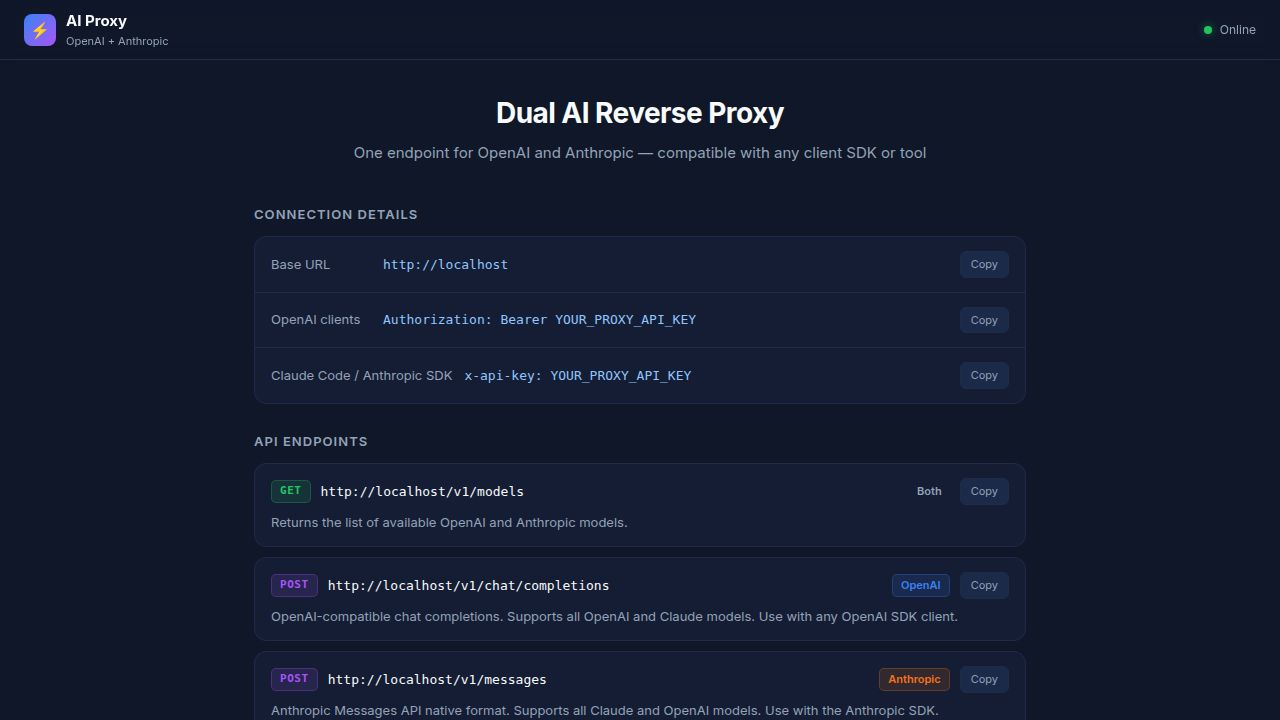
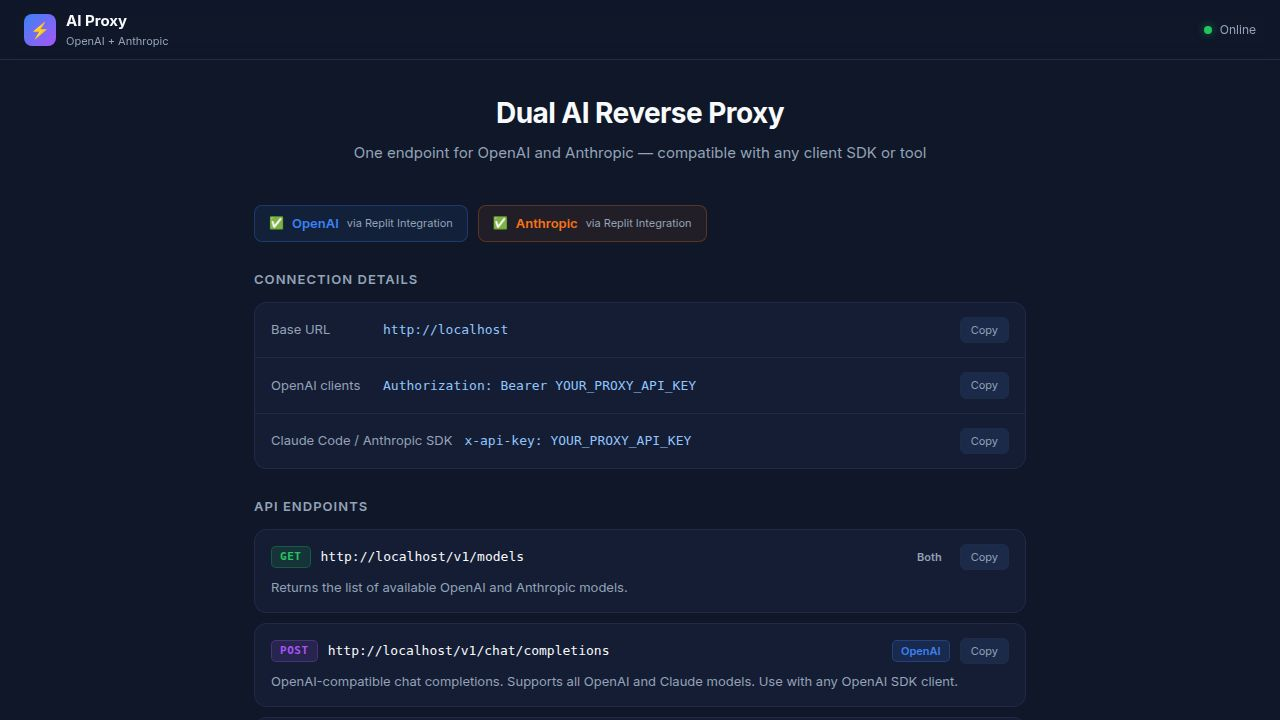
Add automatic integration setup prompt for Replit Agent
Introduce a new prompt for the Replit Agent to automatically configure AI integrations, simplifying the setup process for deployed applications.

Replit-Commit-Author: Agent
Replit-Commit-Session-Id: 729d444d-5c8c-4a5c-aedb-13aca8ba5588
Replit-Commit-Checkpoint-Type: full_checkpoint
Replit-Commit-Event-Id: ec2453fd-46f7-472b-a636-a43aa08fc039
Replit-Commit-Screenshot-Url: https://storage.googleapis.com/screenshot-production-us-central1/3ffdbfe6-48a6-4f89-98e3-c7e74179b4e4/729d444d-5c8c-4a5c-aedb-13aca8ba5588/aFTfLhC
Replit-Helium-Checkpoint-Created: true

diff --git a/artifacts/api-portal/src/App.tsx b/artifacts/api-portal/src/App.tsx
@@ -14,6 +14,13 @@ const CODE_BG = "hsl(222,47%,8%)";
 const OPENAI_MODELS = ["gpt-5.2", "gpt-5-mini", "gpt-5-nano", "o4-mini", "o3"];
 const ANTHROPIC_MODELS = ["claude-opus-4-6", "claude-sonnet-4-6", "claude-haiku-4-5"];
 
+const AGENT_SETUP_PROMPT = `请帮我配置这个 Replit 项目的 AI 集成：
+1. 在 Tools → Integrations 中添加 OpenAI AI 集成
+2. 在 Tools → Integrations 中添加 Anthropic AI 集成
+3. 完成后重启 "API Server" workflow
+
+这会自动注入 AI_INTEGRATIONS_OPENAI_API_KEY、AI_INTEGRATIONS_OPENAI_BASE_URL、AI_INTEGRATIONS_ANTHROPIC_API_KEY、AI_INTEGRATIONS_ANTHROPIC_BASE_URL 环境变量，让 AI 反代网关正常工作。`;
+
 const ENDPOINTS = [
   {
     method: "GET",
@@ -267,30 +274,52 @@ export default function App() {
               </div>
 
               {/* Instructions */}
-              <div>
-                <p style={{ margin: "0 0 12px", fontSize: "13px", color: TEXT, fontWeight: 600 }}>
-                  Choose one of the following setup methods:
+              <div style={{ display: "flex", flexDirection: "column", gap: "10px" }}>
+                <p style={{ margin: 0, fontSize: "13px", color: TEXT, fontWeight: 600 }}>
+                  Choose a setup method — fastest first:
                 </p>
 
-                {/* Method A */}
-                <div style={{ background: CODE_BG, borderRadius: "8px", padding: "14px 16px", marginBottom: "10px" }}>
-                  <div style={{ fontSize: "12px", fontWeight: 700, color: "#22c55e", marginBottom: "8px", textTransform: "uppercase", letterSpacing: "0.06em" }}>Method A — Replit AI Integrations (free, recommended)</div>
+                {/* Method 0 — Agent prompt (fastest) */}
+                <div style={{ background: CODE_BG, borderRadius: "8px", padding: "14px 16px", border: "1px solid #22c55e33" }}>
+                  <div style={{ display: "flex", alignItems: "center", justifyContent: "space-between", marginBottom: "10px" }}>
+                    <div style={{ fontSize: "12px", fontWeight: 700, color: "#22c55e", textTransform: "uppercase", letterSpacing: "0.06em" }}>
+                      🤖 Method 1 — Replit Agent (fully automatic, recommended)
+                    </div>
+                  </div>
+                  <p style={{ margin: "0 0 10px", fontSize: "12px", color: MUTED, lineHeight: 1.6 }}>
+                    Open the <b style={{ color: TEXT }}>AI / Agent</b> panel in your Replit project and paste this prompt. The Agent will configure everything automatically.
+                  </p>
+                  <div style={{ position: "relative" }}>
+                    <pre style={{
+                      margin: 0, padding: "12px 14px", background: "hsl(222,47%,6%)", borderRadius: "6px",
+                      fontSize: "12px", color: "#a5f3fc", whiteSpace: "pre-wrap", wordBreak: "break-word",
+                      border: "1px solid #22c55e22", lineHeight: 1.6,
+                    }}>{AGENT_SETUP_PROMPT}</pre>
+                    <div style={{ marginTop: "8px", display: "flex", justifyContent: "flex-end" }}>
+                      <CopyButton text={AGENT_SETUP_PROMPT} />
+                    </div>
+                  </div>
+                </div>
+
+                {/* Method 2 — Manual Integrations */}
+                <div style={{ background: CODE_BG, borderRadius: "8px", padding: "14px 16px" }}>
+                  <div style={{ fontSize: "12px", fontWeight: 700, color: "#3b82f6", marginBottom: "8px", textTransform: "uppercase", letterSpacing: "0.06em" }}>Method 2 — Replit AI Integrations (manual, free)</div>
                   <ol style={{ margin: 0, paddingLeft: "18px", color: MUTED, fontSize: "13px", lineHeight: 1.8 }}>
-                    <li>In your Replit project, click <b style={{ color: TEXT }}>Tools → Integrations</b></li>
-                    <li>Search for <b style={{ color: OPENAI_COLOR }}>OpenAI</b> and click Enable</li>
-                    <li>Search for <b style={{ color: ANTHROPIC_COLOR }}>Anthropic</b> and click Enable</li>
-                    <li>Restart the <b style={{ color: TEXT }}>API Server</b> workflow — done!</li>
+                    <li>In your Replit project click <b style={{ color: TEXT }}>Tools → Integrations</b></li>
+                    <li>Search for <b style={{ color: OPENAI_COLOR }}>OpenAI</b> → Enable</li>
+                    <li>Search for <b style={{ color: ANTHROPIC_COLOR }}>Anthropic</b> → Enable</li>
+                    <li>Restart the <b style={{ color: TEXT }}>API Server</b> workflow</li>
                   </ol>
                 </div>
 
-                {/* Method B */}
+                {/* Method 3 — Own API Keys */}
                 <div style={{ background: CODE_BG, borderRadius: "8px", padding: "14px 16px" }}>
-                  <div style={{ fontSize: "12px", fontWeight: 700, color: "#a855f7", marginBottom: "8px", textTransform: "uppercase", letterSpacing: "0.06em" }}>Method B — Your own API Keys (Secrets)</div>
+                  <div style={{ fontSize: "12px", fontWeight: 700, color: "#a855f7", marginBottom: "8px", textTransform: "uppercase", letterSpacing: "0.06em" }}>Method 3 — Your own API Keys</div>
                   <ol style={{ margin: 0, paddingLeft: "18px", color: MUTED, fontSize: "13px", lineHeight: 1.8 }}>
-                    <li>In your Replit project, click the <b style={{ color: TEXT }}>🔒 Secrets</b> tab (padlock icon in sidebar)</li>
-                    <li>Add secret: <code style={{ color: OPENAI_COLOR }}>OPENAI_API_KEY</code> = your OpenAI key</li>
-                    <li>Add secret: <code style={{ color: ANTHROPIC_COLOR }}>ANTHROPIC_API_KEY</code> = your Anthropic key</li>
-                    <li>Restart the <b style={{ color: TEXT }}>API Server</b> workflow — done!</li>
+                    <li>Open the <b style={{ color: TEXT }}>🔒 Secrets</b> tab in your Replit project</li>
+                    <li>Add <code style={{ color: OPENAI_COLOR }}>OPENAI_API_KEY</code> = your OpenAI key</li>
+                    <li>Add <code style={{ color: ANTHROPIC_COLOR }}>ANTHROPIC_API_KEY</code> = your Anthropic key</li>
+                    <li>Restart the <b style={{ color: TEXT }}>API Server</b> workflow</li>
                   </ol>
                 </div>
               </div>

diff --git a/README.md b/README.md
@@ -27,7 +27,22 @@ A self-hosted dual AI reverse proxy for **OpenAI** and **Anthropic** models.
 
 ### After deploying — configure AI provider credentials (pick one method):
 
-#### Method A — Replit AI Integrations (free, billed to Replit credits)
+#### Method 1 — Replit Agent (fully automatic, recommended)
+
+Open the **AI / Agent** panel in your Replit project and paste this prompt:
+
+```
+请帮我配置这个 Replit 项目的 AI 集成：
+1. 在 Tools → Integrations 中添加 OpenAI AI 集成
+2. 在 Tools → Integrations 中添加 Anthropic AI 集成
+3. 完成后重启 "API Server" workflow
+
+这会自动注入 AI_INTEGRATIONS_OPENAI_API_KEY、AI_INTEGRATIONS_OPENAI_BASE_URL、AI_INTEGRATIONS_ANTHROPIC_API_KEY、AI_INTEGRATIONS_ANTHROPIC_BASE_URL 环境变量，让 AI 反代网关正常工作。
+```
+
+The Agent will configure everything automatically. No manual steps needed.
+
+#### Method 2 — Replit AI Integrations (manual, free)
 
 Go to **Tools → Integrations** in your Repl, then add:
 - ✅ **OpenAI**
@@ -35,7 +50,7 @@ Go to **Tools → Integrations** in your Repl, then add:
 
 Then restart the **API Server** workflow. Done.
 
-#### Method B — Your own API Keys (Secrets)
+#### Method 3 — Your own API Keys (Secrets)
 
 In your Repl, open the **Secrets** tab (🔒 padlock icon in the sidebar) and add:
 - `OPENAI_API_KEY` — your OpenAI API key
@@ -43,7 +58,7 @@ In your Repl, open the **Secrets** tab (🔒 padlock icon in the sidebar) and ad
 
 Then restart the **API Server** workflow. Done.
 
-> **Tip:** After setup, open the portal at your app's URL — it shows a live status badge for each provider and step-by-step instructions if anything is missing.
+> **Tip:** After setup, open the portal at your app's URL — it automatically detects your configuration status and shows the setup prompt if anything is missing.
 
 > **No proxy key needed.** The default gateway key is `123456`. Override it by adding a `PROXY_API_KEY` secret.
 
